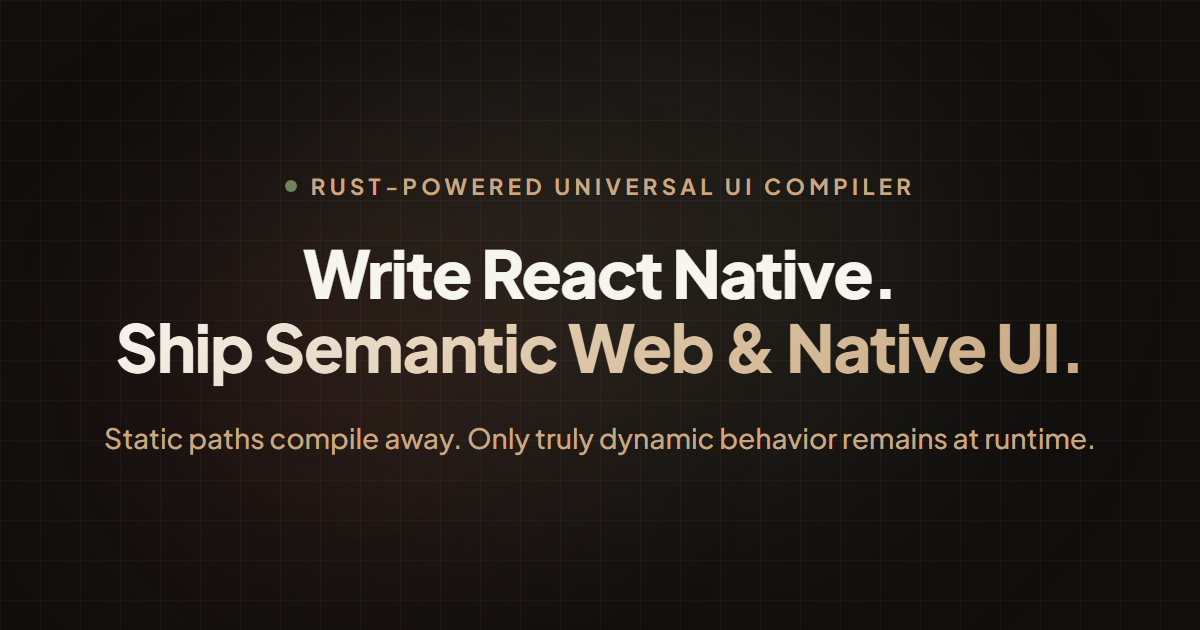
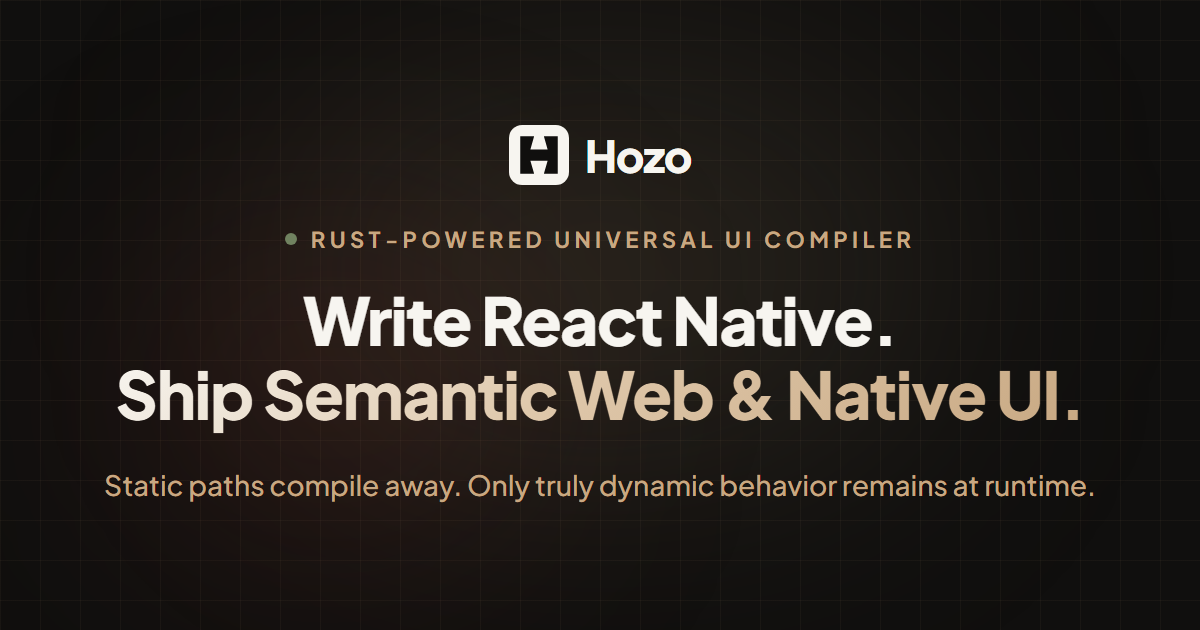
feat(landing): put the mark on the Open Graph card
Claude-Session: https://claude.ai/code/session_01DF7JFtqDWG1odvT3z9xFy5

Changed region(s): [[0.0925, 0.3619, 0.925, 0.7238], [0.2158, 0.181, 0.7708, 0.3317], [0.0925, 0.754, 0.925, 0.8143]]

diff --git a/apps/landing/scripts/og-image.html b/apps/landing/scripts/og-image.html
@@ -69,11 +69,26 @@
         justify-content: center;
         text-align: center;
       }
+      /* src/components/BrandMark.tsx as the dark header shows it: a shikkui tile, the H cut in yakisugi */
+      .brand {
+        display: flex;
+        align-items: center;
+        gap: 16px;
+        margin-bottom: 40px;
+        color: #f7f5f0; /* shikkui */
+        font-size: 44px;
+        font-weight: 800;
+        letter-spacing: -0.025em;
+      }
+      .brand svg {
+        width: 60px;
+        height: 60px;
+      }
       .eyebrow {
         display: flex;
         align-items: center;
         gap: 14px;
-        margin-bottom: 36px;
+        margin-bottom: 30px;
         color: #c8a882; /* hinoki */
         font-size: 22px;
         font-weight: 700;
@@ -117,6 +132,13 @@
     <div class="glow glow-hinoki"></div>
     <div class="glow glow-bengara"></div>
     <main>
+      <div class="brand">
+        <svg viewBox="0 0 32 32" aria-hidden="true">
+          <rect width="32" height="32" rx="7" fill="#f7f5f0" />
+          <path d="M6 6H13.4L11.4 13H20.6L18.6 6H26V26H18.6L20.6 19H11.4L13.4 26H6Z" fill="#100f0e" />
+        </svg>
+        Hozo
+      </div>
       <div class="eyebrow"><span class="dot"></span>Rust-powered Universal UI Compiler</div>
       <h1>
         Write React Native.<br />
